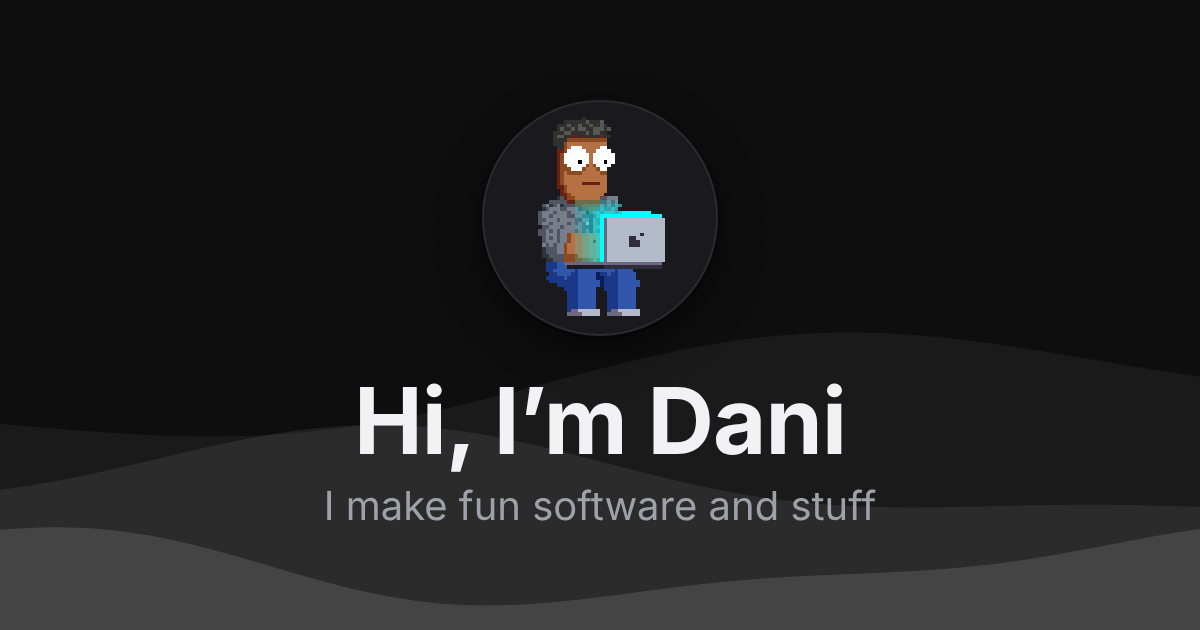
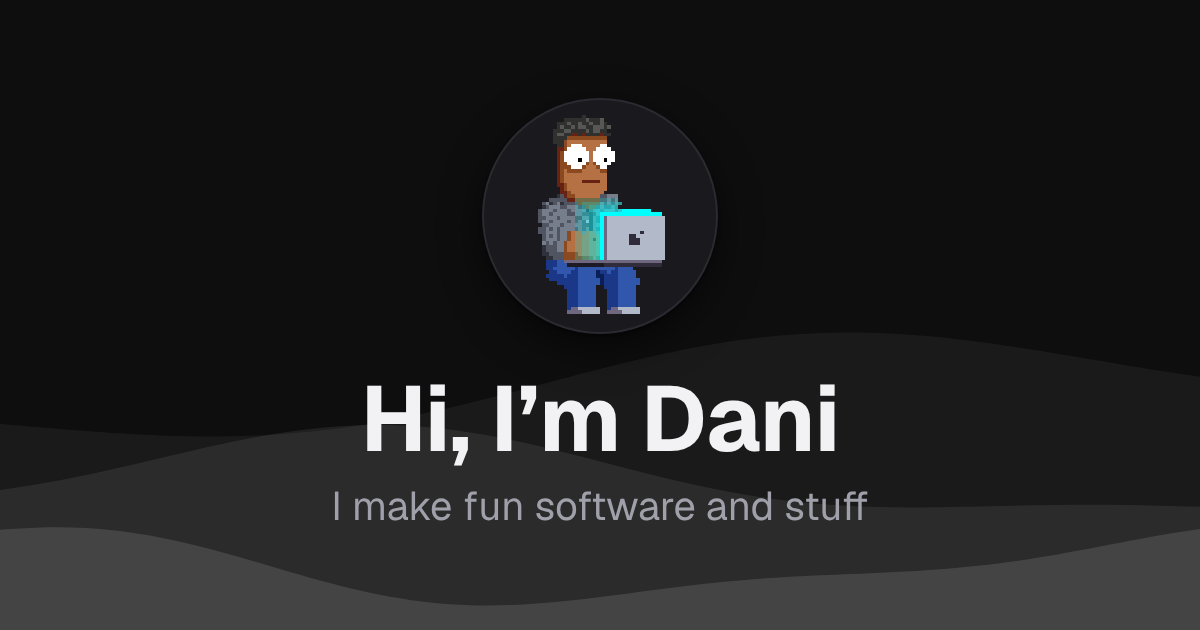
Add Geist font

diff --git a/styles/styles.css b/styles/styles.css
@@ -1,3 +1,14 @@
+/* ---------- Font (Geist, SIL OFL 1.1: assets/fonts/Geist-OFL.txt) ---------- */
+@font-face {
+  font-family: "Geist";
+  font-style: normal;
+  font-weight: 100 900;
+  font-display: swap;
+  src: url("../assets/fonts/geist-latin-wght-normal.woff2") format("woff2");
+  unicode-range: U+0000-00FF, U+0131, U+0152-0153, U+02BB-02BC, U+02C6, U+02DA, U+02DC, U+0304, U+0308, U+0329,
+    U+2000-206F, U+20AC, U+2122, U+2191, U+2193, U+2212, U+2215, U+FEFF, U+FFFD;
+}
+
 /* ---------- Tokens ---------- */
 :root {
   --bg: #ffffff;
@@ -87,6 +98,7 @@ body {
   background: var(--bg);
   color: var(--ink);
   font-family:
+    "Geist",
     system-ui,
     -apple-system,
     "Segoe UI",

diff --git a/index.html b/index.html
@@ -27,6 +27,7 @@
         if (saved === "light" || saved === "dark") document.documentElement.dataset.theme = saved;
       } catch (e) {}
     </script>
+    <link rel="preload" href="assets/fonts/geist-latin-wght-normal.woff2" as="font" type="font/woff2" crossorigin />
     <link rel="stylesheet" href="styles/styles.css" />
   </head>
   <body>
